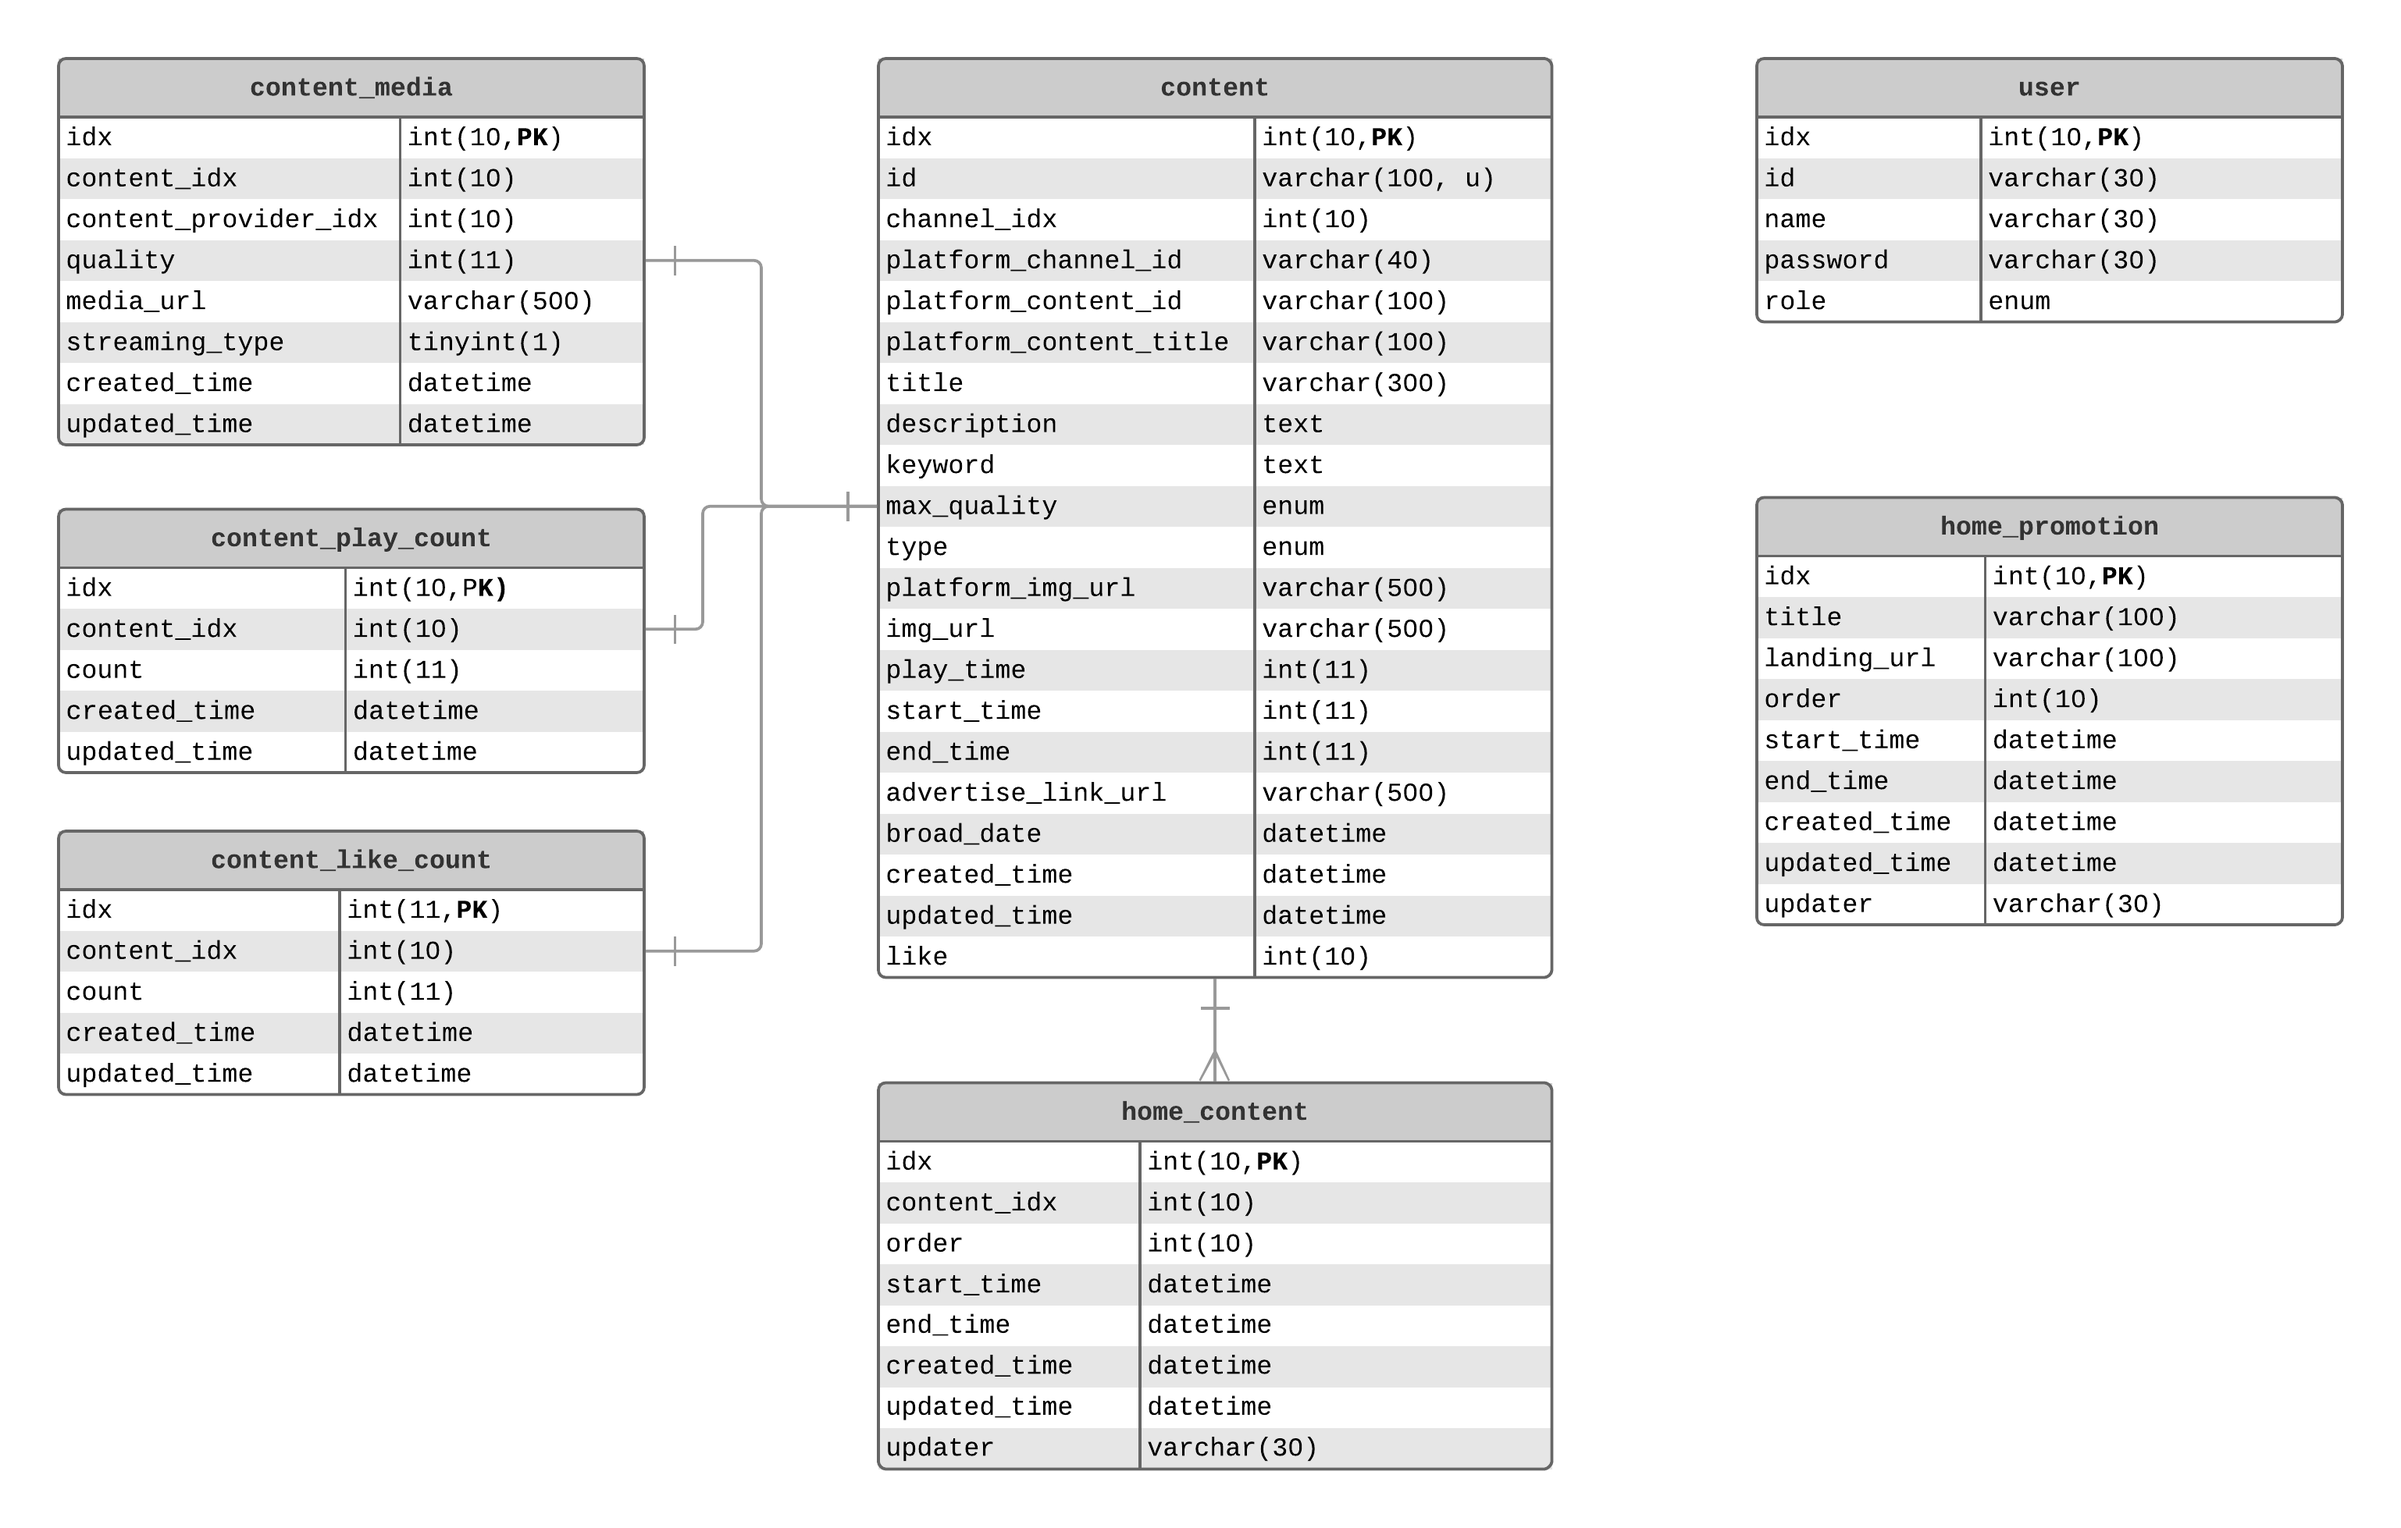
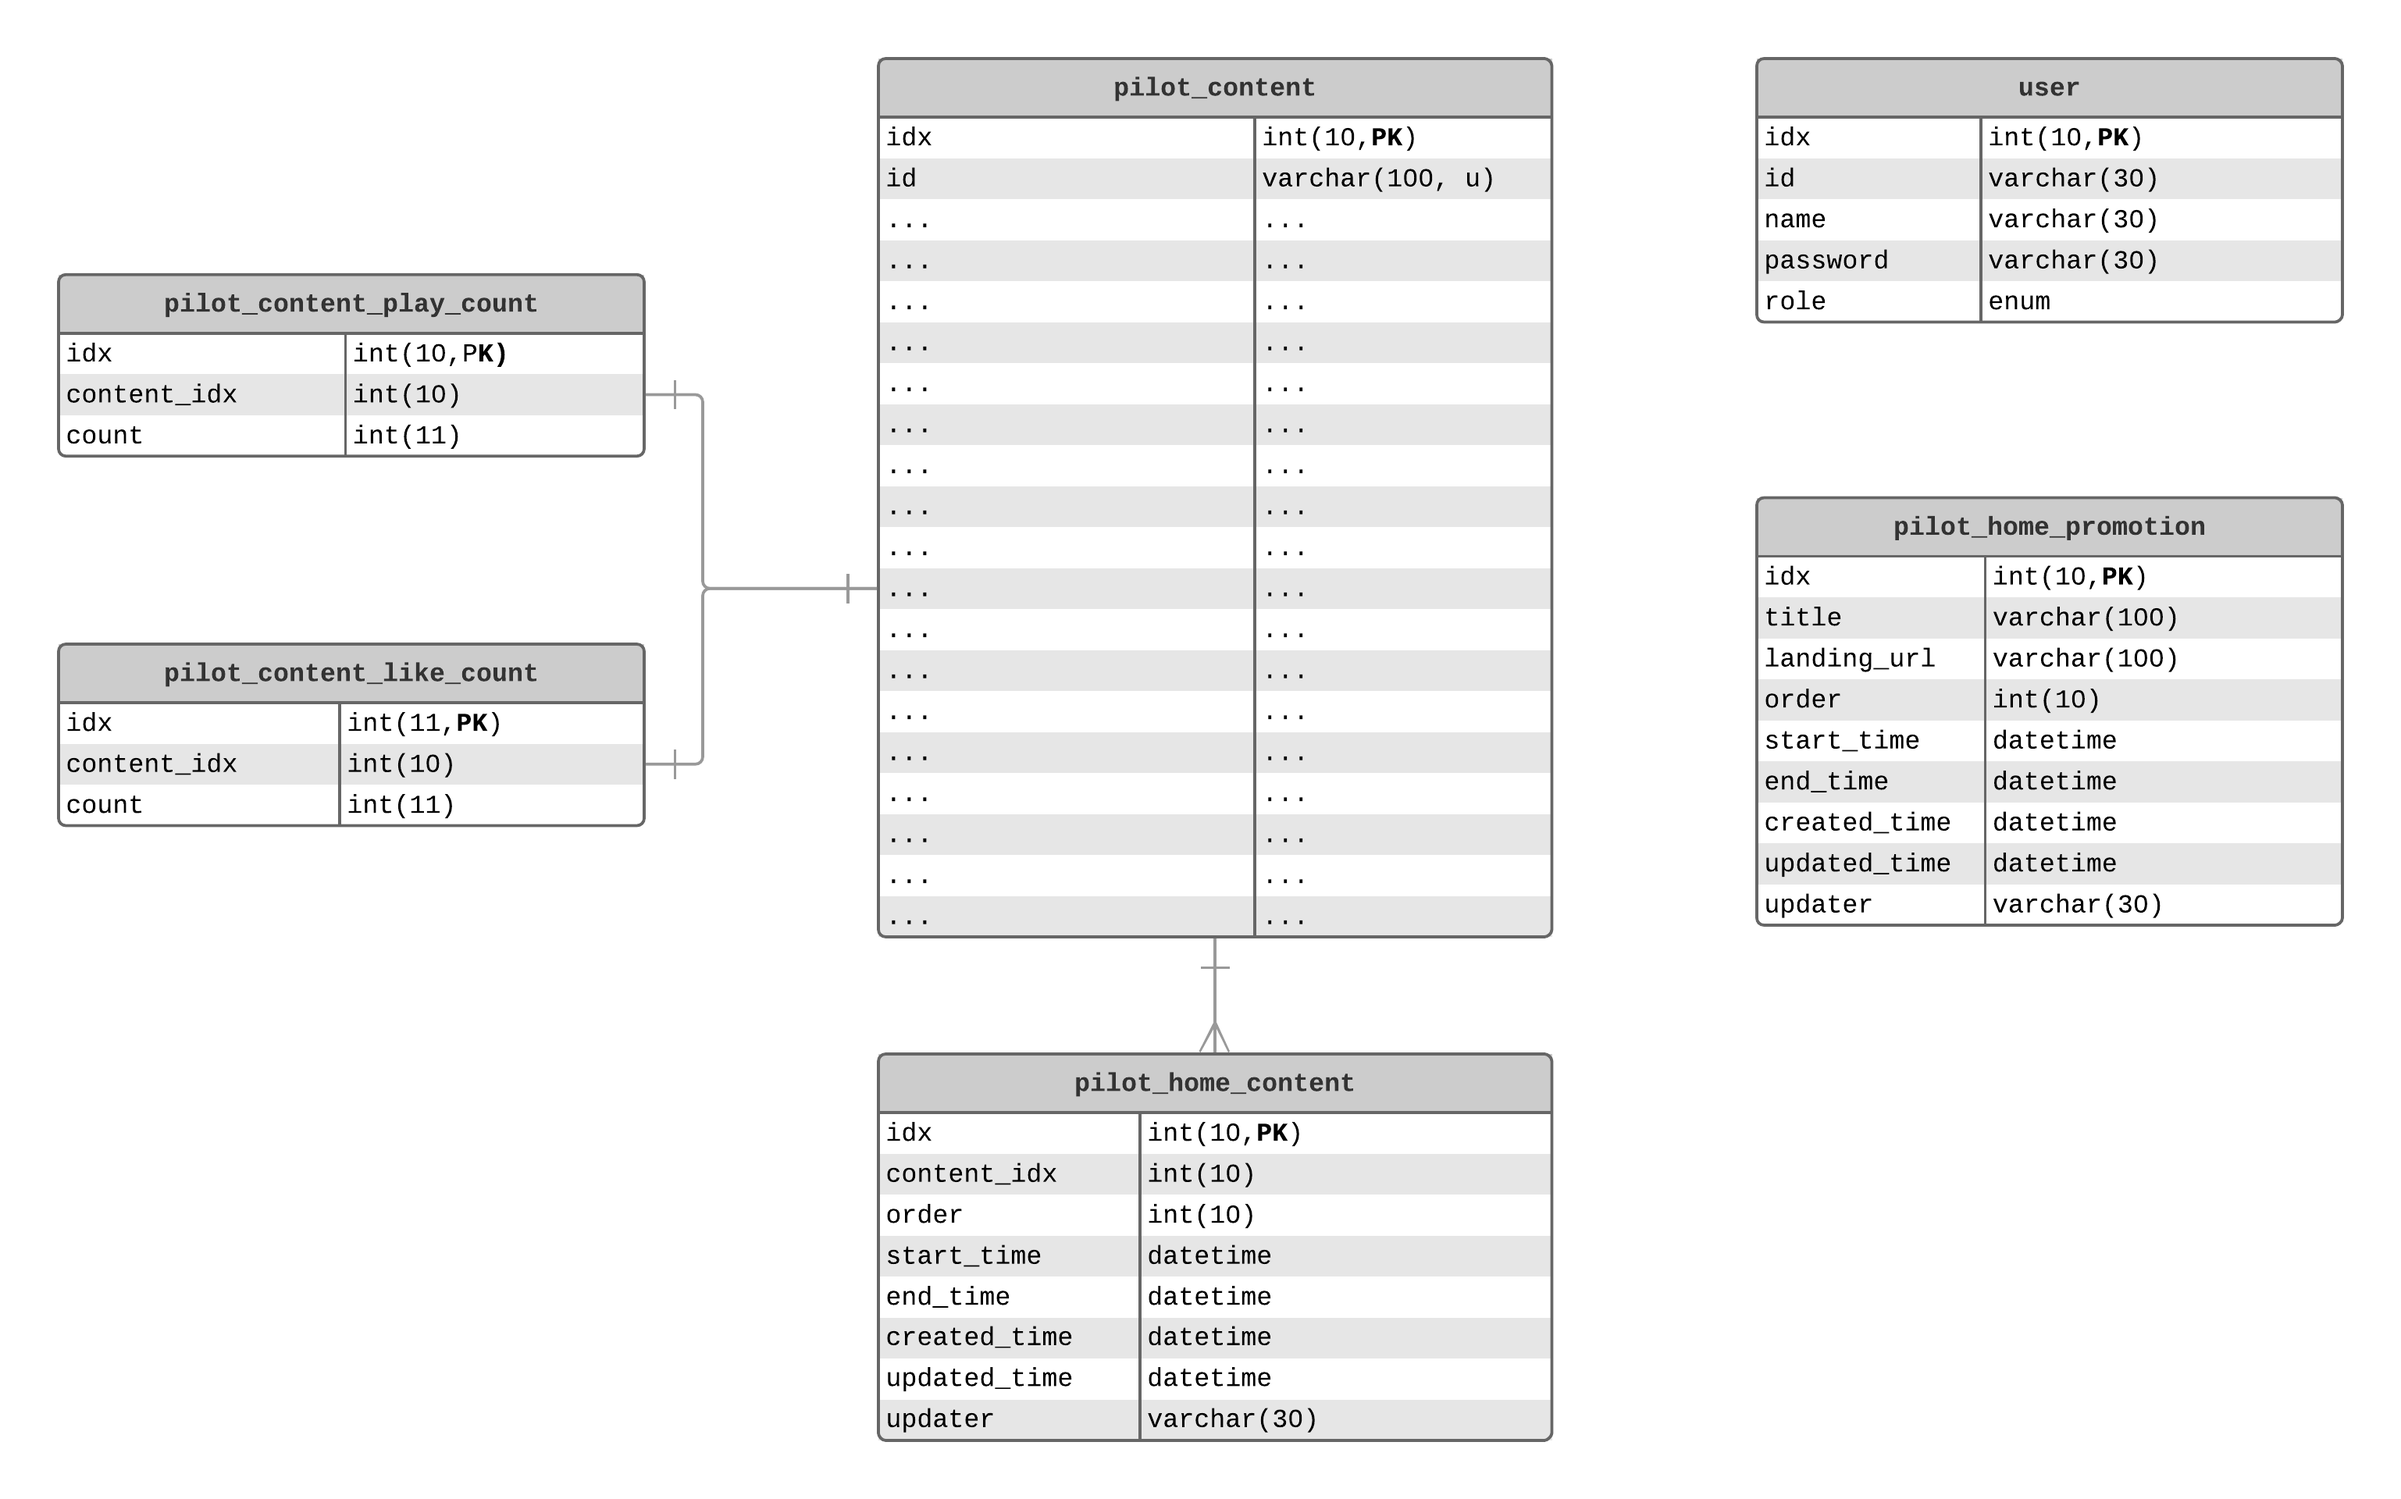
docs: 파일럿 프로젝트 회고록 수정사항 반영

diff --git a/Etc/pilot-project-tv-zum-cms.md b/Etc/pilot-project-tv-zum-cms.md
@@ -50,7 +50,7 @@
 
 ### 3-1 테이블 구조
 
-TV줌의 서비스 특성상 [SMR(Smart Media Representative)사](http://www.smartmediarep.com/main/main.html)로부터 제공받은 컨텐츠를 바탕으로 서비스 하기 때문에 컨텐츠를 저장하는 테이블은 제가 직접 정의하거나, 변경할 수 없었습니다. 따라서, 홈 메인 상단 노출 컨텐츠 관리 기능을 구현하는 데 있어서 필요한 home_content 테이블을 별도로 정의하고 관리와 스케줄링, 히스토리 관리에 필요한 컬럼을 추가해서 사용했습니다. 그리고 재생수와 좋아요수는 실시간 변동이 잦기 때문에, 저장하는 테이블을 따로 관리해서 매번 컨텐츠의 모든 정보를 포함하는 테이블을 업데이트하는 부담을 줄이고자 했습니다. 따라서 평소에는 Redis로 데이터를 유지하고 스케줄링을 통해 Redis에 유지 중인 데이터를 DB에 업데이트하는 방식으로 재생수와 좋아요수를 관리합니다.
+기존의 데이터를 바탕으로 서비스 하기 때문에 컨텐츠를 저장하는 테이블은 제가 직접 정의하거나, 변경할 수 없었습니다. 따라서, 홈 메인 상단 노출 컨텐츠 관리 기능을 구현하는 데 있어서 필요한 home_content 테이블을 별도로 정의하고 관리와 스케줄링, 히스토리 관리에 필요한 컬럼을 추가해서 사용했습니다. 그리고 재생수와 좋아요수는 실시간 변동이 잦기 때문에, 저장하는 테이블을 따로 관리해서 매번 컨텐츠의 모든 정보를 포함하는 테이블을 업데이트하는 부담을 줄이고자 했습니다. 따라서 평소에는 Redis로 데이터를 유지하고 스케줄링을 통해 Redis에 유지 중인 데이터를 DB에 업데이트하는 방식으로 재생수와 좋아요수를 관리합니다.
 
 하지만 홈 상단 노출 프로모션 문구의 경우 CMS 사용자가 모든 부분(프로모션 문구 추가, 수정, 삭제, 스케줄링 등)을 직접 컨트롤하기 때문에, 하나의 테이블로 모든 것을 관리할 수 있다고 생각했습니다. 결과적으로 프로모션 문구와 해당 문구의 랜딩 URL, 노출 순서, 스케줄링 시간과 최종 수정자를 포함하는 home_promotion 하나의 테이블을 사용하여 기능 구현이 가능했습니다.
 
